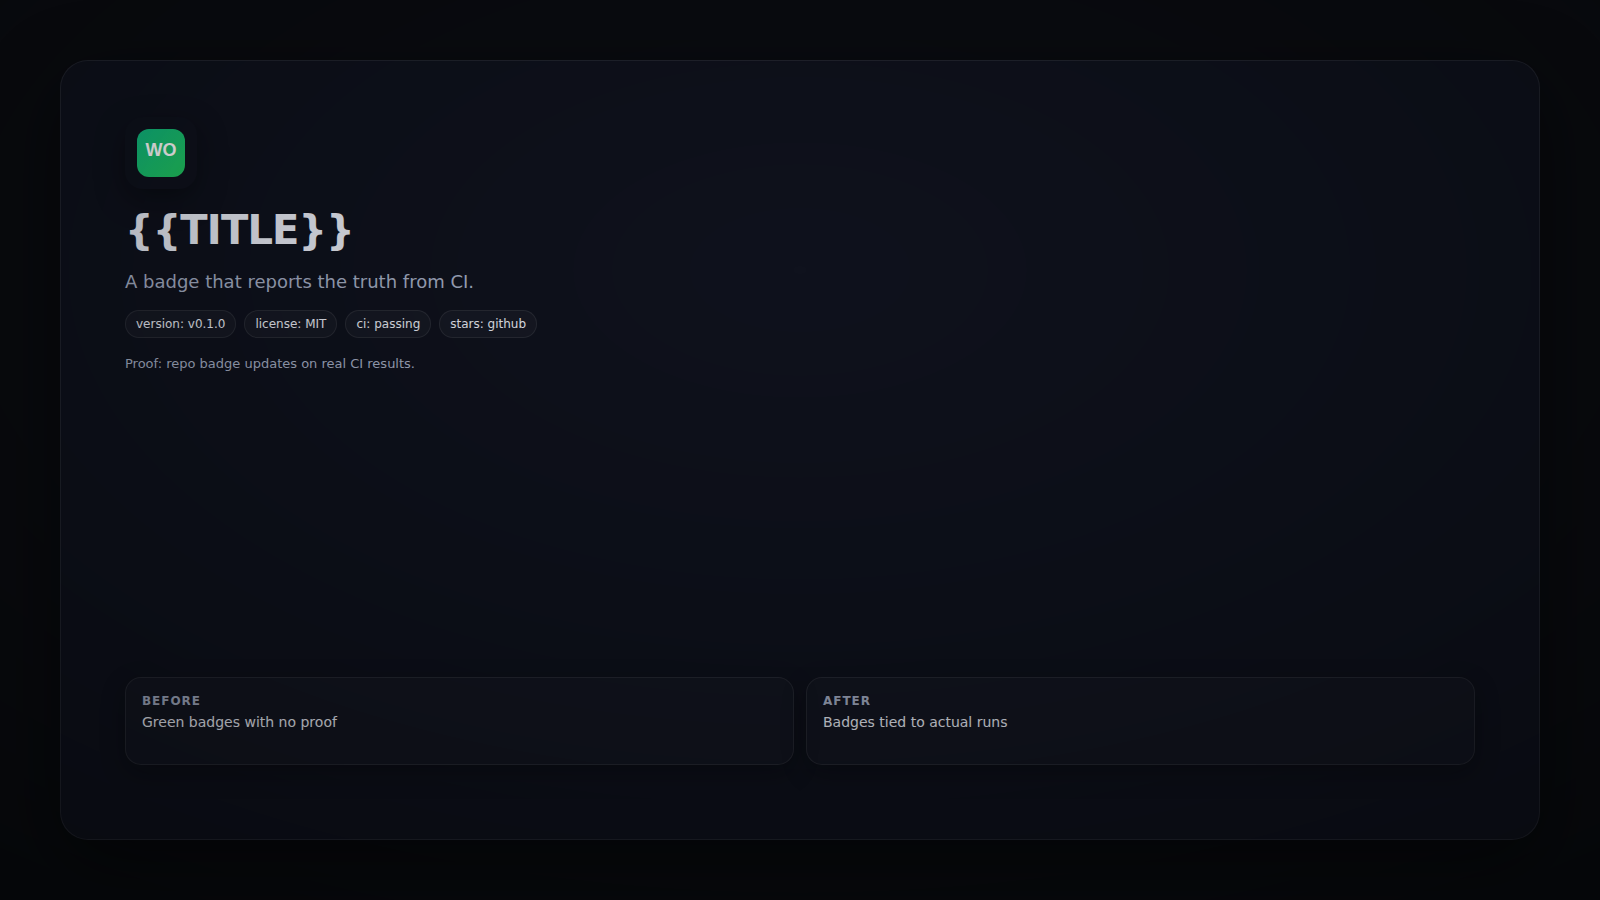
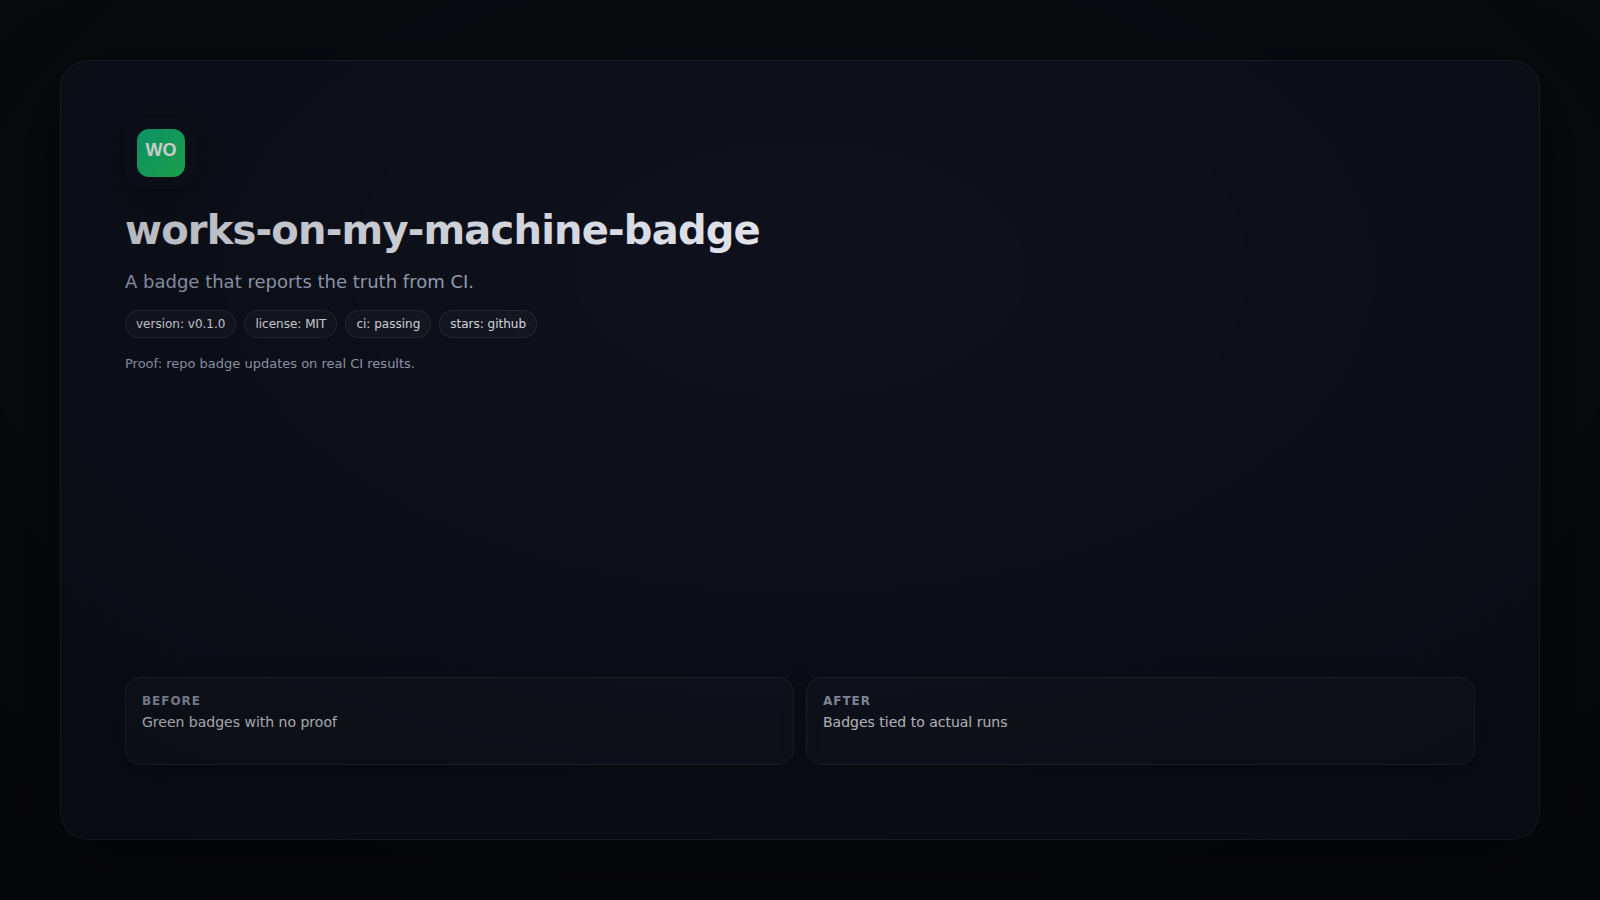
chore: update visuals

Changed region(s): [[0.0625, 0.2178, 0.5, 0.28]]

diff --git a/assets/.hero.html b/assets/.hero.html
@@ -80,7 +80,7 @@ body { width: var(--w); height: var(--h); display: grid; place-items: center; }
 <body class="vignette" style="--w: 1600px; --h: 900px; --accent-a: #10b981; --accent-b: #22c55e;">
   <div class="canvas">
     <div class="logo"><svg xmlns="http://www.w3.org/2000/svg" width="48" height="48" viewBox="0 0 48 48"><defs><linearGradient id="g" x1="0" y1="0" x2="1" y2="1"><stop stop-color="#10b981"/><stop offset="1" stop-color="#22c55e"/></linearGradient></defs><rect width="48" height="48" rx="12" fill="url(#g)"/><text x="50%" y="56%" text-anchor="middle" font-family="Inter, Arial" font-size="18" font-weight="800" fill="white">WO</text></svg></div>
-    <div class="title">{{TITLE}}</div>
+    <div class="title">works-on-my-machine-badge</div>
     <div class="tagline">A badge that reports the truth from CI.</div>
     <div class="badges"><span class="badge">version: v0.1.0</span><span class="badge">license: MIT</span><span class="badge">ci: passing</span><span class="badge">stars: github</span></div>
     <div class="proof">Proof: repo badge updates on real CI results.</div>

diff --git a/assets/.og.html b/assets/.og.html
@@ -80,7 +80,7 @@ body { width: var(--w); height: var(--h); display: grid; place-items: center; }
 <body class="vignette" style="--w: 1200px; --h: 630px; --accent-a: #10b981; --accent-b: #22c55e;">
   <div class="canvas">
     <div class="logo"><svg xmlns="http://www.w3.org/2000/svg" width="48" height="48" viewBox="0 0 48 48"><defs><linearGradient id="g" x1="0" y1="0" x2="1" y2="1"><stop stop-color="#10b981"/><stop offset="1" stop-color="#22c55e"/></linearGradient></defs><rect width="48" height="48" rx="12" fill="url(#g)"/><text x="50%" y="56%" text-anchor="middle" font-family="Inter, Arial" font-size="18" font-weight="800" fill="white">WO</text></svg></div>
-    <div class="title">{{TITLE}}</div>
+    <div class="title">works-on-my-machine-badge</div>
     <div class="tagline">A badge that reports the truth from CI.</div>
     <div class="badges"><span class="badge">version: v0.1.0</span><span class="badge">license: MIT</span><span class="badge">ci: passing</span><span class="badge">stars: github</span></div>
     <div class="proof">Proof: repo badge updates on real CI results.</div>
